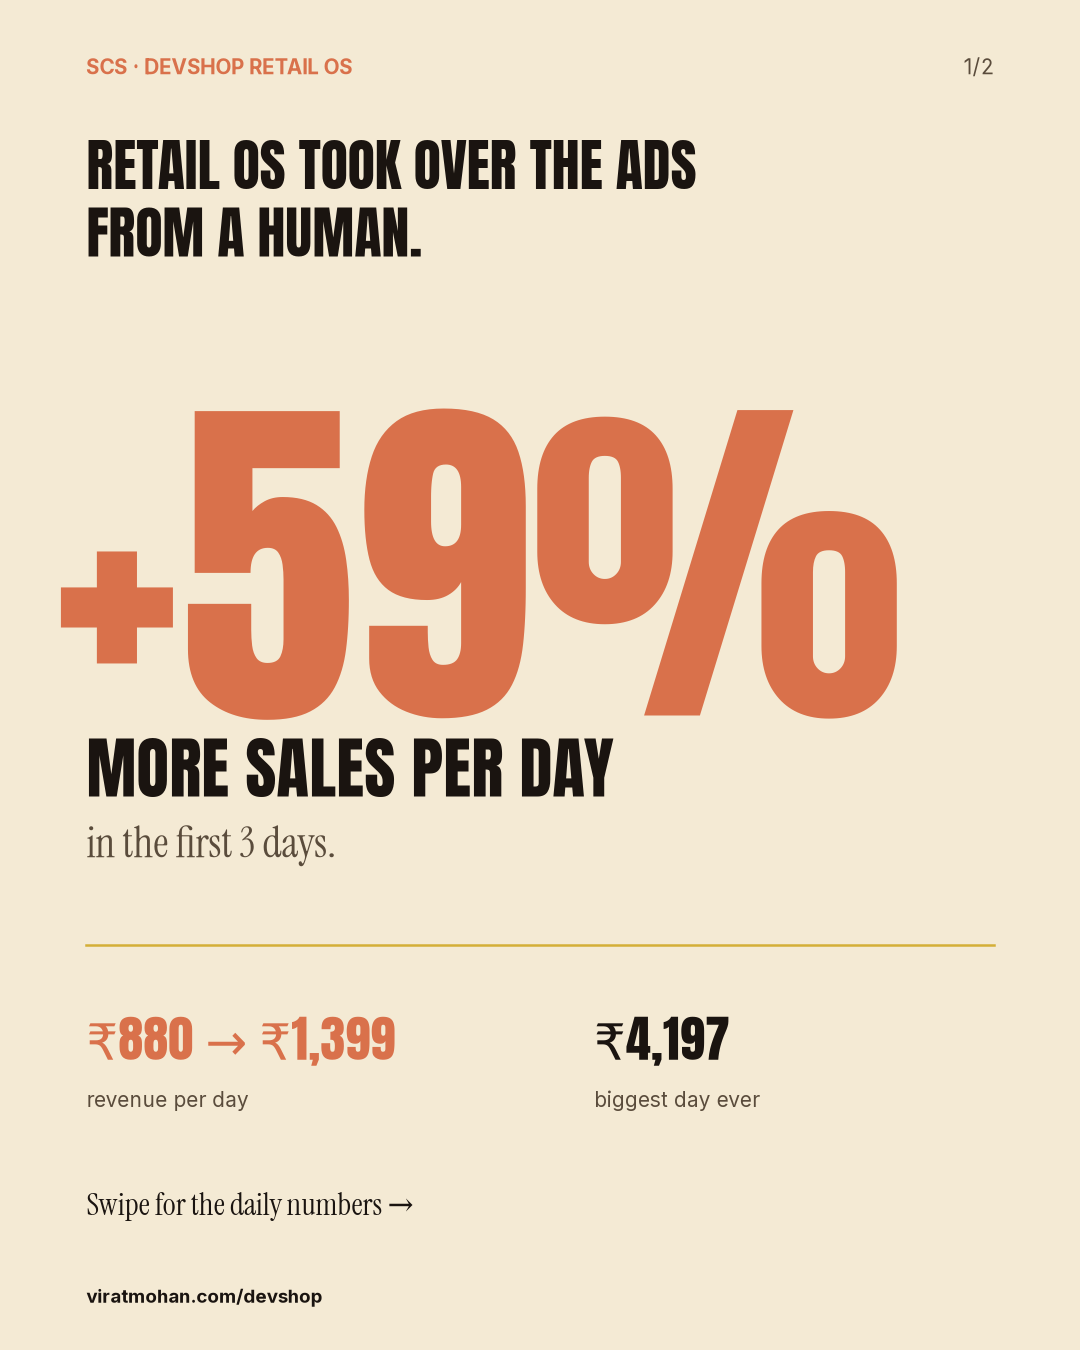
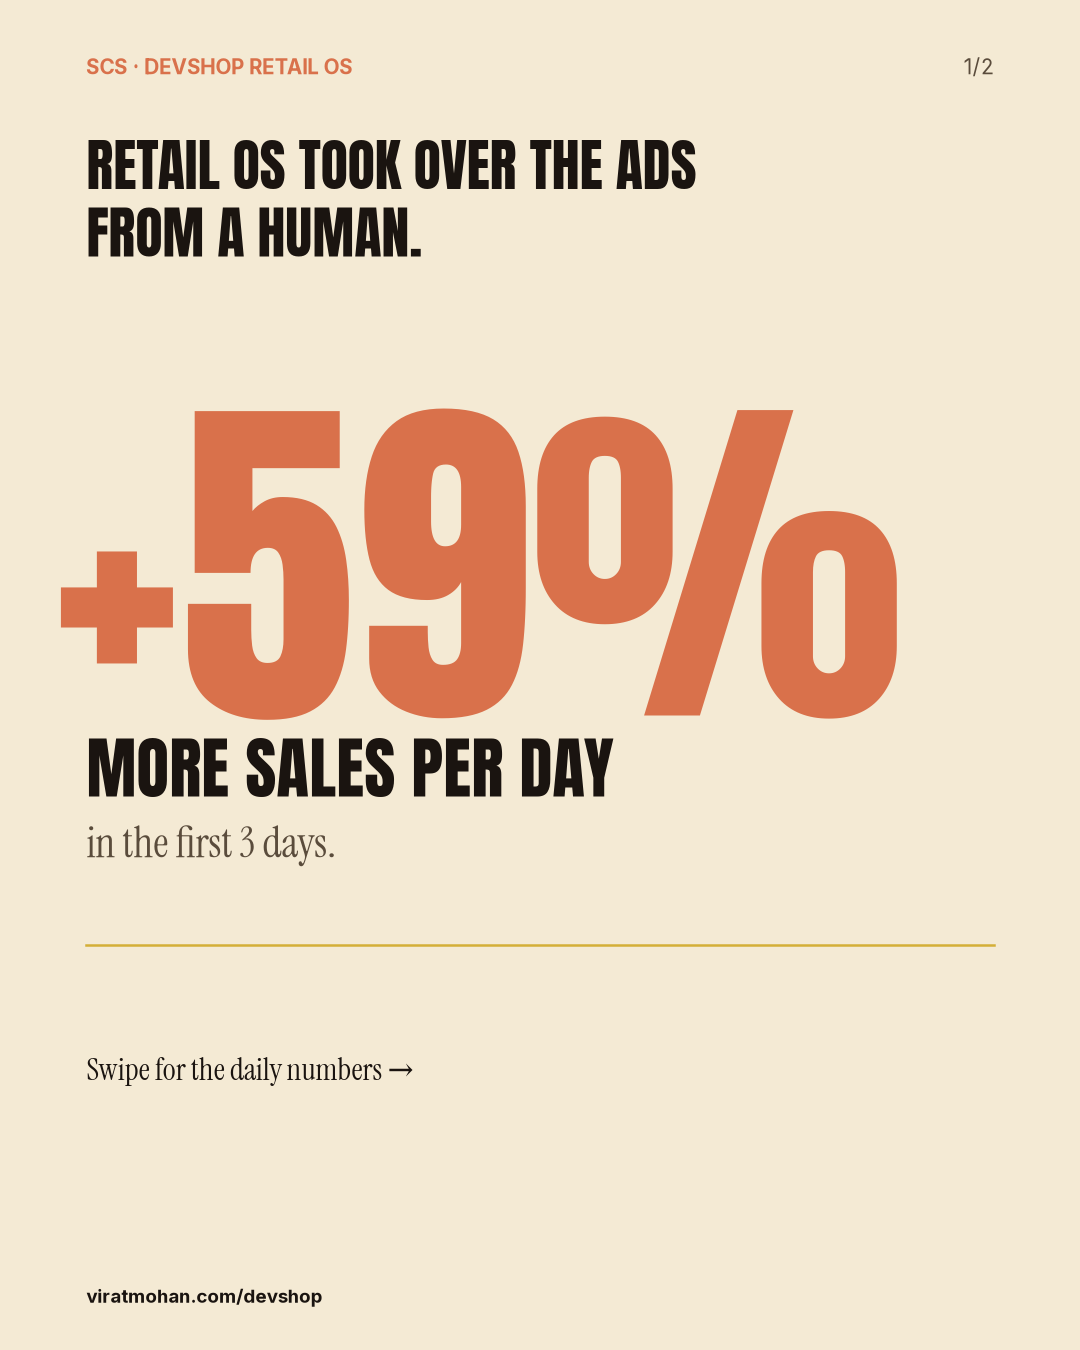
SCS carousel: remove revenue-per-day and biggest-day-ever callouts
The two images baked these numbers into the poster art itself (not just
copy), so removing the surrounding page text wasn't enough. Regenerates
both slides from case-study/scs-carousel.py with the ₹880→₹1,399 /
₹4,197 stat pair and the chart's ₹4,197 bar annotation removed, keeping
the +59% headline and the daily bar chart.

Changed region(s): [[0.0917, 0.7467, 0.3667, 0.84], [0.55, 0.7467, 0.7028, 0.84], [0.0917, 0.8711, 0.3667, 0.9022]]

diff --git a/case-study/scs-carousel.py b/case-study/scs-carousel.py
@@ -20,10 +20,7 @@ fig.text(.05, .47, f"+{after/before-1:.0%}", family=DISPLAY, fontsize=170, color
 fig.text(.08, .41, "MORE SALES PER DAY", family=DISPLAY, fontsize=32)
 fig.text(.08, .365, "in the first 3 days.", family=SERIF, fontsize=20, color=DIM, style="italic")
 fig.add_artist(plt.Line2D([.08, .92], [.3, .3], color=GOLD, lw=1.2))
-for i, (b, s) in enumerate([("₹880 → ₹1,399", "revenue per day"), ("₹4,197", "biggest day ever")]):
-    fig.text(.08 + i * .47, .215, b, family=DISPLAY, fontsize=24, color=TERRACOTTA if i == 0 else INK)
-    fig.text(.08 + i * .47, .18, s, fontsize=10, color=DIM)
-fig.text(.08, .1, "Swipe for the daily numbers →", family=SERIF, fontsize=15, style="italic")
+fig.text(.08, .2, "Swipe for the daily numbers →", family=SERIF, fontsize=15, style="italic")
 fig.savefig("scs-carousel-1.png", dpi=150)
 
 # Slide 2: the proof
@@ -36,7 +33,6 @@ ax.bar(days, rev, color=[TERRACOTTA if d >= auto else INK for d in days], width=
 for x0, x1, v, c in [(days[0], D(2026, 9, 23), before, DIM), (auto, days[-1], after, TERRACOTTA)]:
     ax.hlines(v, x0 - T(.4), x1 + T(.4), colors=c, lw=2, ls="--")
 ax.text(days[-1] + T(.6), 4900, "AUTOPILOT ON", family=DISPLAY, color=TERRACOTTA, fontsize=12, ha="right")
-ax.text(days[-1], 4197 + 100, "₹4,197", ha="center", fontsize=8.5, weight="bold")
 ax.set_ylim(0, 5400); ax.set_xlim(days[0] - T(.7), days[-1] + T(.7))
 ax.set_xticks(days[::3]); ax.xaxis.set_major_formatter(md.DateFormatter("%d %b")); ax.tick_params(labelsize=8.5)
 ax.set_ylabel("₹ per day", fontsize=9)
@@ -44,5 +40,5 @@ fig.add_artist(plt.Line2D([.08, .92], [.31, .31], color=GOLD, lw=1.2))
 fig.text(.08, .235, "Retail OS picks the campaigns, sets the budget", family=DISPLAY, fontsize=18)
 fig.text(.08, .2, "and kills what doesn't sell. No human media buyer.", family=DISPLAY, fontsize=18)
 fig.text(.08, .13, "Let's talk.", family=SERIF, fontsize=20, style="italic", color=TERRACOTTA)
-fig.text(.08, .075, "Source: brand's order database, non-cancelled orders, 11–26 Sep 2026. Before: ₹11,438 over 13 days.\nAfter: ₹4,197 over 3 days (1 order). ROAS not shown.", fontsize=6.5, color=DIM)
+fig.text(.08, .075, "Source: brand's order database, non-cancelled orders, 11–26 Sep 2026. 8 orders over 13 days\nbefore, 1 order over 3 days after. ROAS not shown.", fontsize=6.5, color=DIM)
 fig.savefig("scs-carousel-2.png", dpi=150)
